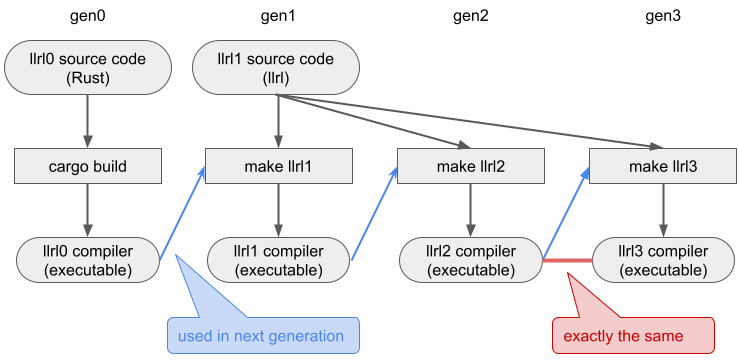
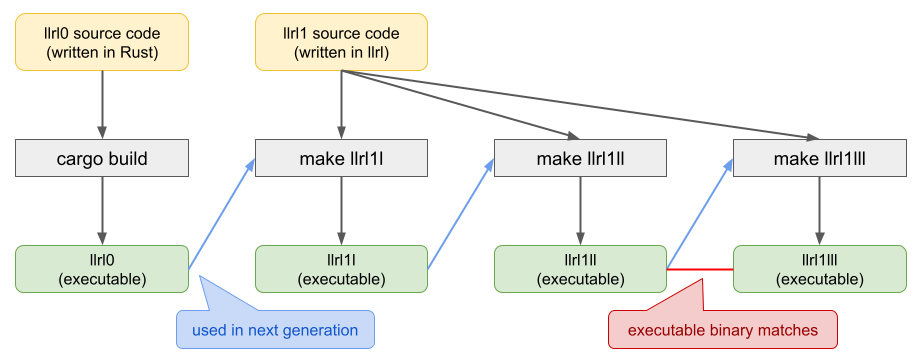
Update documents

diff --git a/xtencg/src/main.rs b/xtencg/src/main.rs
@@ -13,11 +13,13 @@ pub mod render;
 static CSV: &str = include_str!("./x86.csv");
 
 fn main() -> io::Result<()> {
+    // CSV -> Vec<Spec>
     let specs = CSV
         .lines()
         .filter_map(Spec::from_csv_line)
         .collect::<Vec<_>>();
 
+    // Vec<Spec> -> BTreeSet<String, Vec<Instruction>>
     let mut inst_set = build_instruction_set(specs).map_err(to_io_error)?;
     validate_instruction_set(&inst_set).map_err(to_io_error)?;
 

diff --git a/std/llstd.rs b/std/llstd.rs
@@ -1,1 +1,2 @@
+// See README.md and build.rs
 include!(concat!(env!("OUT_DIR"), "/modules.rs"));

diff --git a/README.md b/README.md
@@ -1,6 +1,6 @@
-# llrl: Lisp-like programming language powered by Rust + LLVM
+# llrl programming language
 
-llrl is an experimental **L**isp-**l**ike programming language powered by **R**ust and **L**LVM.
+llrl is an experimental programming language.
 
 <p align="center">
 <img src="./examples/images/1.png">
@@ -10,28 +10,37 @@ llrl is an experimental **L**isp-**l**ike programming language powered by **R**u
 
 ## Features
 
-llrl is not a highly carefully designed programming language, but it mainly borrows its design from OCaml, Rust, Haskell, and Scheme.
+llrl mainly borrows its design from OCaml, Rust, Haskell, and Scheme.
 
-- **Self-hosting compiler implementation**
 - **Statically-typed**
   - Hindley-Milner based type system
   - Supports type classes
 - **Lisp-like syntax + macros**
   - Uses S-expressions to write programs
-  - Macros are compiled and executed by LLVM JIT
+  - Macros are compiled and executed at compile-time (JIT)
+- **Self-hosting compiler implementation**
+  - There are [Rust implementation (llrl0)](./llrl0) and [llrl implementation (llrl1)](./llrl1)
+- **Multiple backends**
+  - `llvm` backend (works with [The LLVM Compiler Infrastructure](https://llvm.org/))
+  - `chibi` backend (works with [xten](./xten0); xten is a low-level `x86_64` library including assembler and JIT linker, made for llrl)
+
+llrl supports several well-known high-level language features:
+
 - Modules
 - Closures
 - Algebraic data types
 - Pattern matching
 - ...
 
-## Goals and Non-goals
+## History, Goals, and Non-goals
 
 llrl was originally started by learning [LLVM Kaleidoscope Tutorial](https://llvm.org/docs/tutorial/index.html) in Rust. This tutorial is great for learning LLVM frontend basics, but as [the tutorial conclusion suggests](https://llvm.org/docs/tutorial/OCamlLangImpl8.html), there are a lot of things to do to make our compiler more practical.
 
-The goal of llrl is **not** to create a modern, practical programming language. Instead, llrl focuses to make a compiler [self-hosted](<https://en.wikipedia.org/wiki/Self-hosting_(compilers)>). To achieve this with [LLVM-C API](https://llvm.org/doxygen/group__LLVMC.html), we need to implement more language features like strings, pointers, etc. On the other hand, Implementing self-hosting compiler does not require a rich runtime system including garbage collections, exception handling, etc. llrl uses [Boehm garbage collector](https://en.wikipedia.org/wiki/Boehm_garbage_collector) and does not support any exception mechanism (error handling is mainly done with the `Result` type).
+The first goal of llrl was **not** to create a modern, feature-rich practical programming language. Instead, llrl focuses to make a compiler [self-hosted](<https://en.wikipedia.org/wiki/Self-hosting_(compilers)>). To achieve this with [LLVM-C API](https://llvm.org/doxygen/group__LLVMC.html), we need to implement more language features like strings, pointers, etc. On the other hand, Implementing self-hosting compiler does not require a rich runtime system including garbage collections, exception handling, etc. llrl also uses [Boehm garbage collector](https://en.wikipedia.org/wiki/Boehm_garbage_collector) and does not support any exception mechanism to simplify the implementation. Error handling is mainly done with the `Result` type.
+This goal has been achieved and can be tested by `make self-hosting1lll` in `llrl1/`.
 
-This goal has been achieved and can be tested by `make self-hosting` in `llrl1/`.
+After achieving self-hosting, I set my next goal to remove the LLVM dependency from llrl implementation. With this goal, I sought to gain a better understanding of how the compiler backend does its job.
+Since llrl has Lisp-like macros as a language feature, I made my own assembler [xten](./xten0) (which can be used in Rust code) and used it to implement a code generator targeting x86_64. The design of the code generator implementation is based on the pattern used in [chibicc](https://github.com/rui314/chibicc) and [An Incremental Approach to Compiler Construction](http://scheme2006.cs.uchicago.edu/11-ghuloum.pdf).
 
 ### Roadmap
 
@@ -93,19 +102,32 @@ This goal has been achieved and can be tested by `make self-hosting` in `llrl1/`
   - [x] Code generation
   - [x] Driver
   - [x] Self-hosting
+- [x] xten0: JIT/AOT compilation tools for llrl0
+  - [x] Assembler
+  - [x] ELF executable producer
+  - [x] JIT linker
+- [x] llrl0 chibi backend (x86_64 targeting backend with xten0)
+- [ ] xten1: re-implementation of xten0 for llrl
+- [ ] llrl1 chibi backend
 
 ## Usage
 
 Since `llrl0` is a standalone executable, you can simply run it with `cargo run` or `cargo build`.
 
 ```shell
-cargo install --path llrl0 --offline
-llrl0 --help
-llrl0 -O examples/fibonacci-numbers
+$ cargo install --path llrl0 --offline
+$ llrl0 --help
+$ llrl0 -O examples/fibonacci-numbers
 
 # or
 
-cargo run -- -O examples/fibonacci-numbers
+$ cargo run -- -O examples/fibonacci-numbers
+```
+
+Now `llrl0` can run without LLVM.
+
+```shell
+$ cargo install --path llrl0 --offline --no-default-features -F chibi-backend
 ```
 
 ### Requirements
@@ -115,7 +137,8 @@ cargo run -- -O examples/fibonacci-numbers
 - glibc
   - Not tested other C libraries but llrl depends a few implementation-details of glibc (check at [rt/rt.c](./rt/rt.c))
 - clang
-- LLVM 11.0
+- (optional) LLVM 11.0
+  - Enabled by default in [llrl0](./llrl0) with `llvm-backend` feature
   - I use [llvmenv](https://github.com/llvmenv/llvmenv) for building LLVM
 - Boehm GC 8.0
   - On Arch Linux, you can install Boehm GC by simply running `pacman -S gc`

diff --git a/llrl1/README.md b/llrl1/README.md
@@ -1,13 +1,43 @@
 # llrl1: llrl compiler in llrl
 
-llrl compiler implementation written in llrl.
+llrl1 is a re-implementation of llrl compiler in llrl.
 
 ```shell
-make self-hosting
+$ cd ..
+$ make -C llrl1 llrl1l
+$ ./llrl1/llrl1l examples/mandelbrot
 ```
 
-## Complete self-hosting sequence
+## Build
 
 ![](../examples/images/2.png)
 
-Note that `llrl1` does not match its binary with `llrl2`, since `llrl0` (used to produce `llrl1`) is implemented in a way that does not always output the same result. This is due to parallelization, hash value computation, etc.
+Since llrl has multiple backends and is also self-hosted, builds are identified by the compiler and backend used. [llrl0](../llrl0) is required for the first llrl1 build. See [Makefile](./Makefile) for more details.
+
+```shell
+# Build llrl1 compiler with llrl0 + LLVM backend
+$ make llrl1l
+
+# Build llrl1 compiler with llrl0 + chibi backend
+$ make llrl1c
+
+# Build llrl1 compiler with llrl1c + LLVM backend
+$ make llrl1cl
+```
+
+## Run tests
+
+As with the build, we need to specify the build to be used to run the tests. We can also check for self-hosted binary matches.
+
+```shell
+# Run llrl1 tests with llrl0 + LLVM backend
+$ make test0l
+
+# Run llrl1 tests with llrl1c + LLVM backend
+$ make test1cl
+
+# Assert that llrl1cl and llrl1cll match the executable binary
+$ make self-hosting1cll
+```
+
+Note that `llrl1l` does not match its binary with `llrl1ll`, since `llrl0` (used to build `llrl1l`) is implemented in a way that does not always output the same result. This is due to parallelization, hash value computation, etc.

diff --git a/xten0/README.md b/xten0/README.md
@@ -1,7 +1,7 @@
-# xten0: Low-level library to assist with JIT compilation
+# xten0: Low-level `x86_64` library to assist with JIT/AOT compilation for Rust
 
-xten0 provides the following features for JIT compiler implementation:
+xten0 provides the following features for JIT/AOT compiler implementation:
 
-* The `asm` module provides an x64 assembler that runs on Rust's `io::Write`. It supports writing data and rodata, defining symbols and embedding relocation information.
+* The `asm` module provides an `x86_64` assembler that runs on Rust's `io::Write`. It supports writing data and rodata, defining symbols and embedding relocation information.
 * The `elf` module provides the ability to generate relocatable objects in ELF format. You can convert an `Object` (generated by the `asm` module) into an ELF binary and link it with a common linker.
 * The `jit` module provides the ability to load `Object` into memory and prepare it for direct execution.

diff --git a/llvm0/README.md b/llvm0/README.md
@@ -1,7 +1,7 @@
-# llvm0: LLVM Rust API
+# llvm0: High-level LLVM API for Rust
 
 - [API design description (Japanese)](https://zenn.dev/yubrot/articles/37b6724e41fd3c)
 
 This crate provides a higher-level abstract interface to [llvm-sys](https://crates.io/crates/llvm-sys).
 
-Although there are already crates that provide such a higher-level abstract interface to LLVM, such as [llvm-ir](https://crates.io/crates/llvm-ir), `llvm0` is implemented on its own with minimal abstraction, considering that it will be reimplemented in llrl itself during self-hosting.
+Although there are already crates that provide such a higher-level abstract interface to LLVM, such as [llvm-ir](https://crates.io/crates/llvm-ir), `llvm0` is implemented on its own with minimal abstraction, considering that [it will be reimplemented in llrl](../llvm1) itself during self-hosting.

diff --git a/std/README.md b/std/README.md
@@ -1,5 +1,5 @@
 # llstd: llrl standard library
 
-llrl modules under this directory, except `tests`, are bundled with the llrl compiler and are available under the package named `std`. Also, all llrl modules that do not contain `(no-implicit-std)` implicitly import `std`.
+llrl modules under this directory, except `tests`, are bundled with the llrl compiler and are available under the package named `std`. Also, as a language feature, all llrl modules that do not contain `(no-implicit-std)` implicitly import `std`.
 
 As a Rust crate, this embeds all the source code of the std package and provides it as a `HashMap<String, String>`.

diff --git a/llvm1/README.md b/llvm1/README.md
@@ -1,5 +1,5 @@
-# llvm1: LLVM llrl API
+# llvm1: High-level LLVM API for llrl
 
 LLVM-C API binding for llrl programming language.
 
-Unlike `llvm0`, `llvm1` does both binding C API functions and providing high-level abstract interfaces. Nevertheless, many functions are simply re-exports of the LLVM-C API with llrl's naming conventions.
+Unlike [`llvm0`](../llvm0), `llvm1` does both binding C API functions and providing high-level abstract interfaces. Nevertheless, many functions are simply re-exports of the LLVM-C API with llrl's naming conventions.

diff --git a/llrl0/README.md b/llrl0/README.md
@@ -1,3 +1,3 @@
 # llrl0: llrl compiler in Rust
 
-In this repository, each directory with `0` as a suffix in its name is a component of Rust's implementation of the 0th generation compiler. This directory is the primary implementation of the llrl compiler in Rust.
+In this repository, each directory with `0` as a suffix in its name is a component of Rust's compiler implementation. This directory is the primary implementation of the llrl compiler in Rust.
